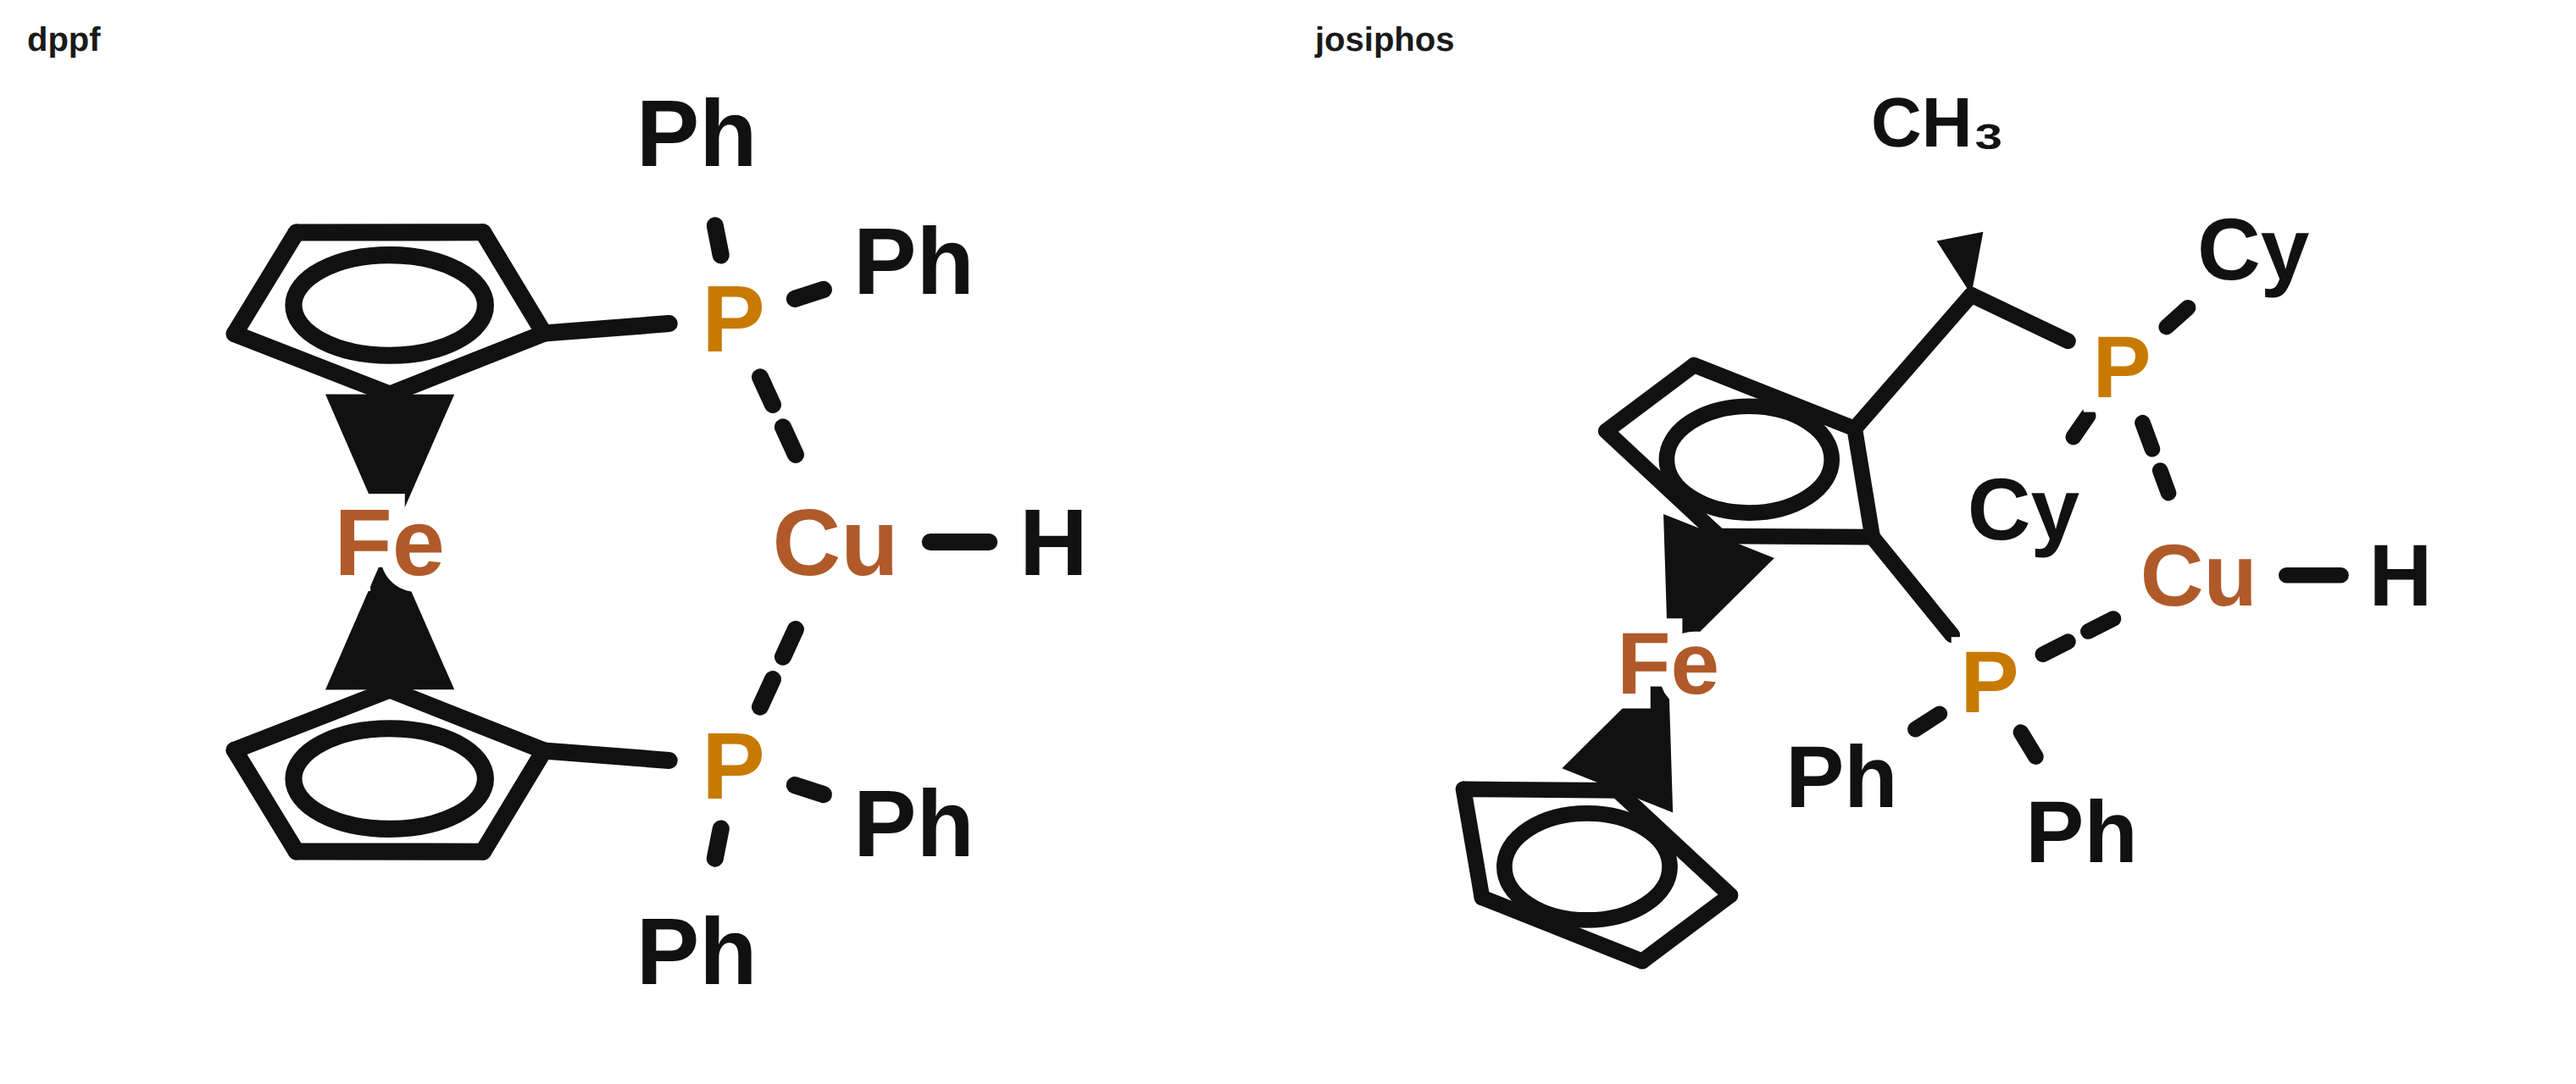
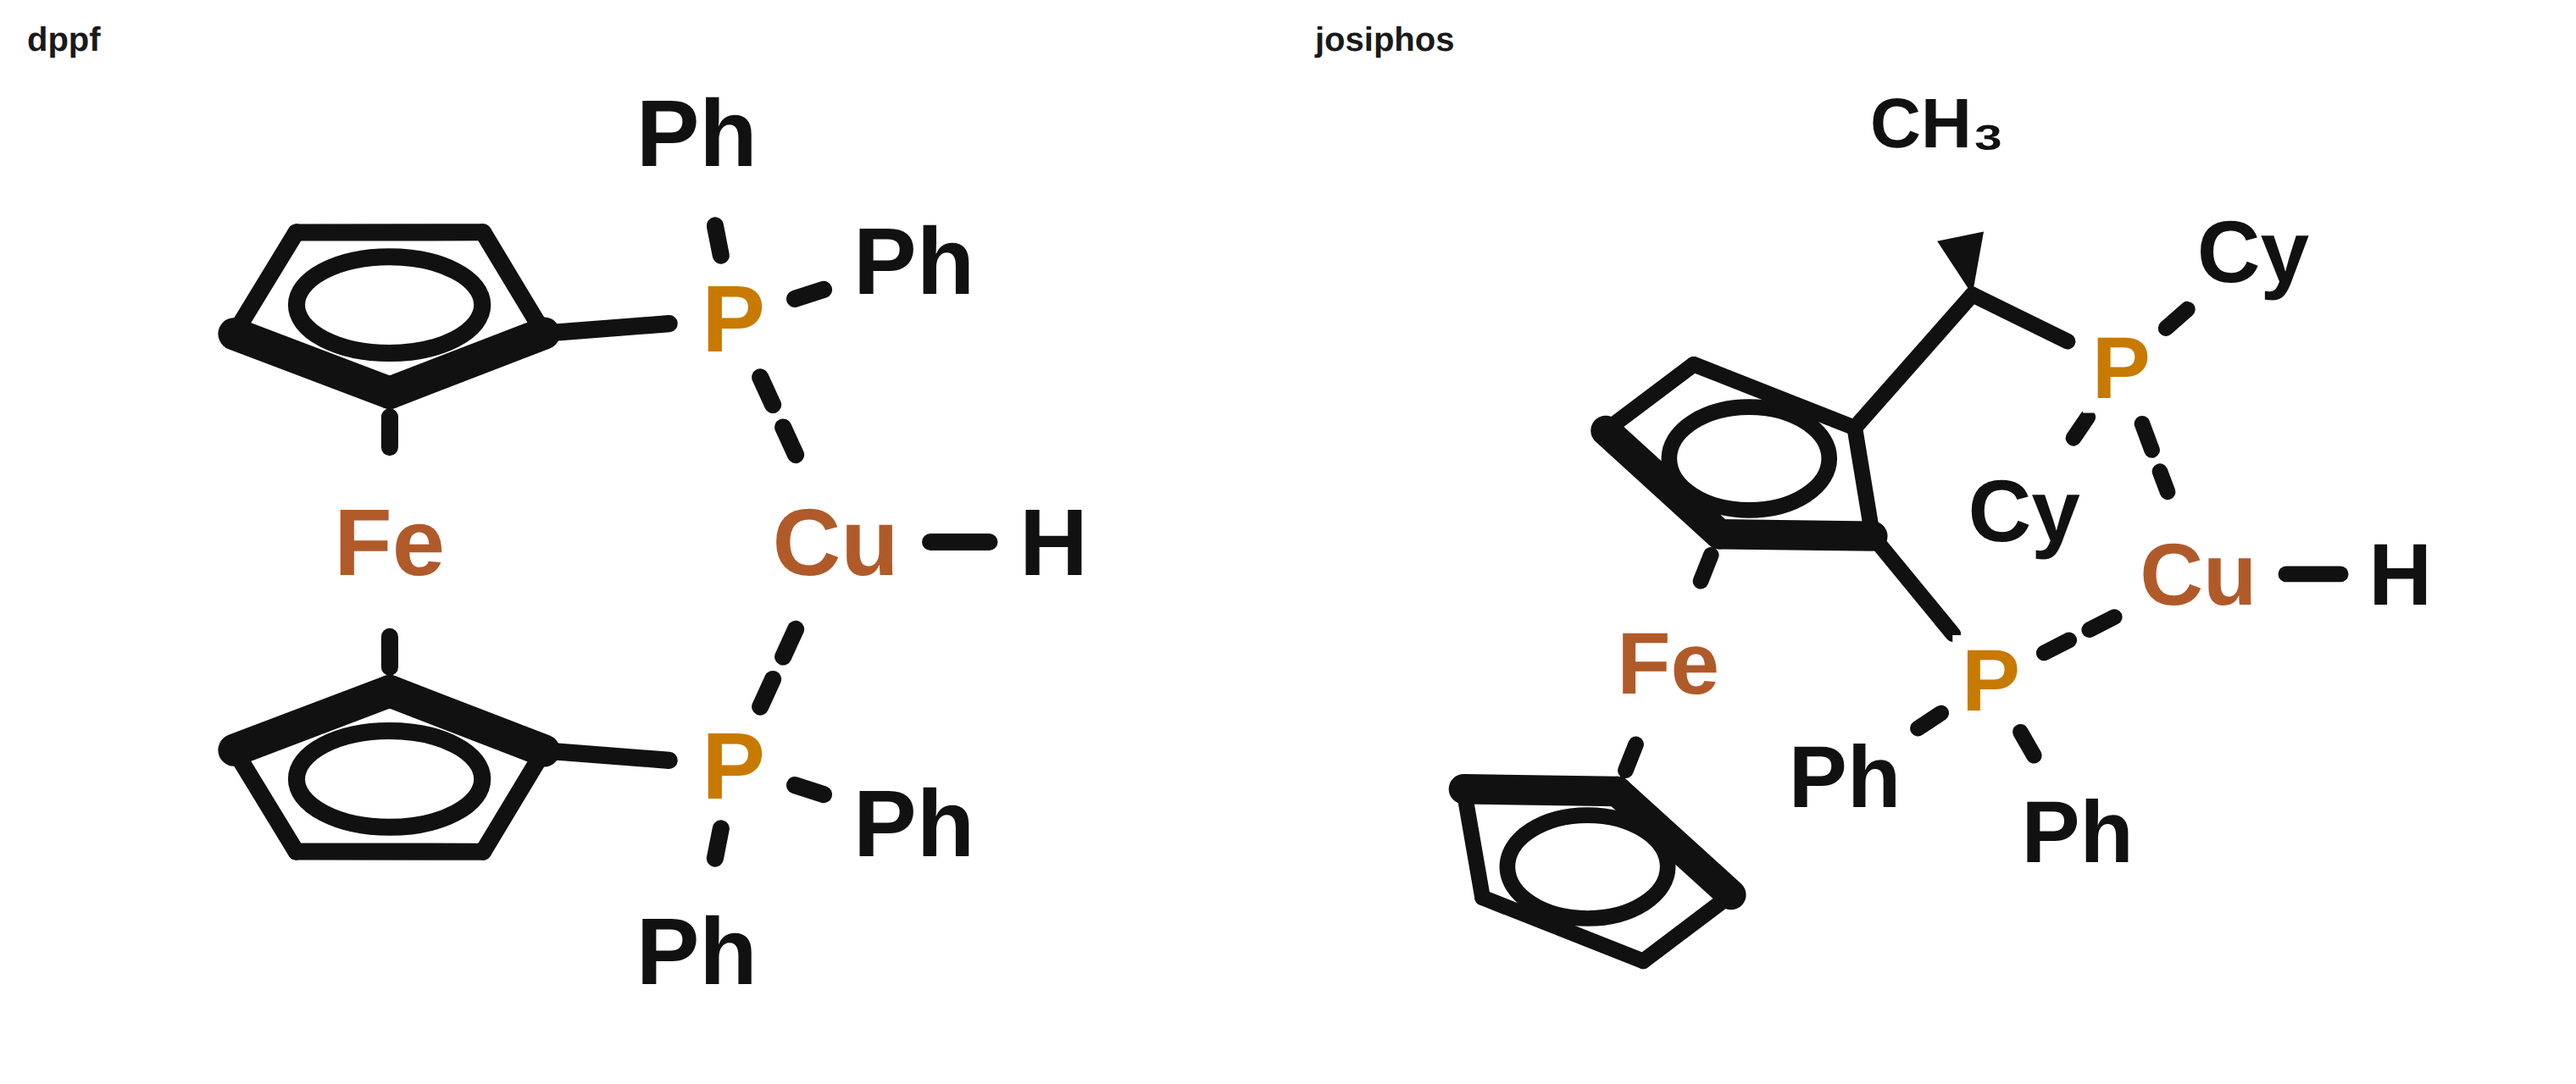
metaldepict: ferrocene eta5 as DASHED line + bold front Cp edges (3D tilt)
Drop the solid eta5 wedge triangle (looked wrong). Now Fe-Cp is a DASHED line and
each Cp's two FRONT edges (nearest Fe) are bold so the disc reads as tilting out
of the plane, matching the reference.

Claude-Session: https://claude.ai/code/session_01VEr4Hixwf6YDK6DNqMg3Gi

diff --git a/metaldepict/methods/seed_from_smiles.py b/metaldepict/methods/seed_from_smiles.py
@@ -211,34 +211,37 @@ _APOTHEM = _PEN_R * math.cos(math.pi / 5)
 
 
 def _cp_ring(sc, center, apex_deg, squash=1.0):
-    """Cyclopentadienyl ring drawn the REFERENCE way: a flattened pentagon
-    OUTLINE (single edges, no Kekule doubles) with an inscribed aromatic circle.
-    `apex_deg` rotates the ring in place; `squash` (<1) tilts it into a disc."""
+    """Cyclopentadienyl ring drawn the REFERENCE way: a flattened pentagon with
+    an inscribed aromatic circle.  The two FRONT edges (the ones nearest Fe, at
+    the apex) are BOLD so the disc reads as tilting out of the plane; the back
+    edges are normal weight.  `apex_deg` rotates in place; `squash` (<1) tilts."""
     cx, cy = center
     ids = []
     for k in range(5):
         a = math.radians(apex_deg + k * 72.0)
         ids.append(sc.atom((cx + _PEN_R * math.cos(a),
                             cy + _PEN_R * math.sin(a) * squash)))
+    front = {0, 4}                                    # edges incident to apex (id0)
     for k in range(5):
-        sc.bond(ids[k], ids[(k + 1) % 5], order=1)       # outline only
-    sc.ring_circle(ids, r_frac=0.62)                     # aromatic circle
+        sc.bond(ids[k], ids[(k + 1) % 5], order=1,
+                kind="bold" if k in front else "plain")
+    sc.ring_circle(ids, r_frac=0.6)                   # aromatic circle
     return ids
 
 
-def _ferrocene_stack(sc, fe_xy=(1.6, 0.0), gap=1.15, squash=0.55):
-    """Reference-style vertical SANDWICH: two Cp discs (apex toward Fe, flat edge
-    away) each with an inscribed circle, Fe labelled in the centre, and the eta5
-    drawn as SOLID WEDGES from Fe to the near carbon of each ring -- no explicit
-    Fe-C bonds.  Returns (fe, upper_ids, lower_ids)."""
+def _ferrocene_stack(sc, fe_xy=(1.6, 0.0), gap=1.18, squash=0.55):
+    """Reference-style vertical SANDWICH: two Cp discs (apex toward Fe), each with
+    an inscribed circle and BOLD front edges for the tilt, Fe labelled in the
+    centre, and the eta5 drawn as a DASHED line from Fe to the apex carbon of each
+    ring.  Returns (fe, upper_ids, lower_ids)."""
     fx, fy = fe_xy
     up = _cp_ring(sc, (fx, fy + gap), apex_deg=270.0, squash=squash)  # apex down
     dn = _cp_ring(sc, (fx, fy - gap), apex_deg=90.0, squash=squash)   # apex up
     fe = sc.atom((fx, fy), label="Fe", color=FE_COL)
-    for ids in (up, dn):                              # eta5 wedge to the apex C
+    for ids in (up, dn):                              # eta5: dashed Fe-Cp
         near = min(ids, key=lambda i: math.hypot(
             sc.atoms[i].pos[0] - fx, sc.atoms[i].pos[1] - fy))
-        sc.wedge(fe, near, half_w=0.34)
+        sc.bond(fe, near, order=1, kind="coord")
     return fe, up, dn
 
 
